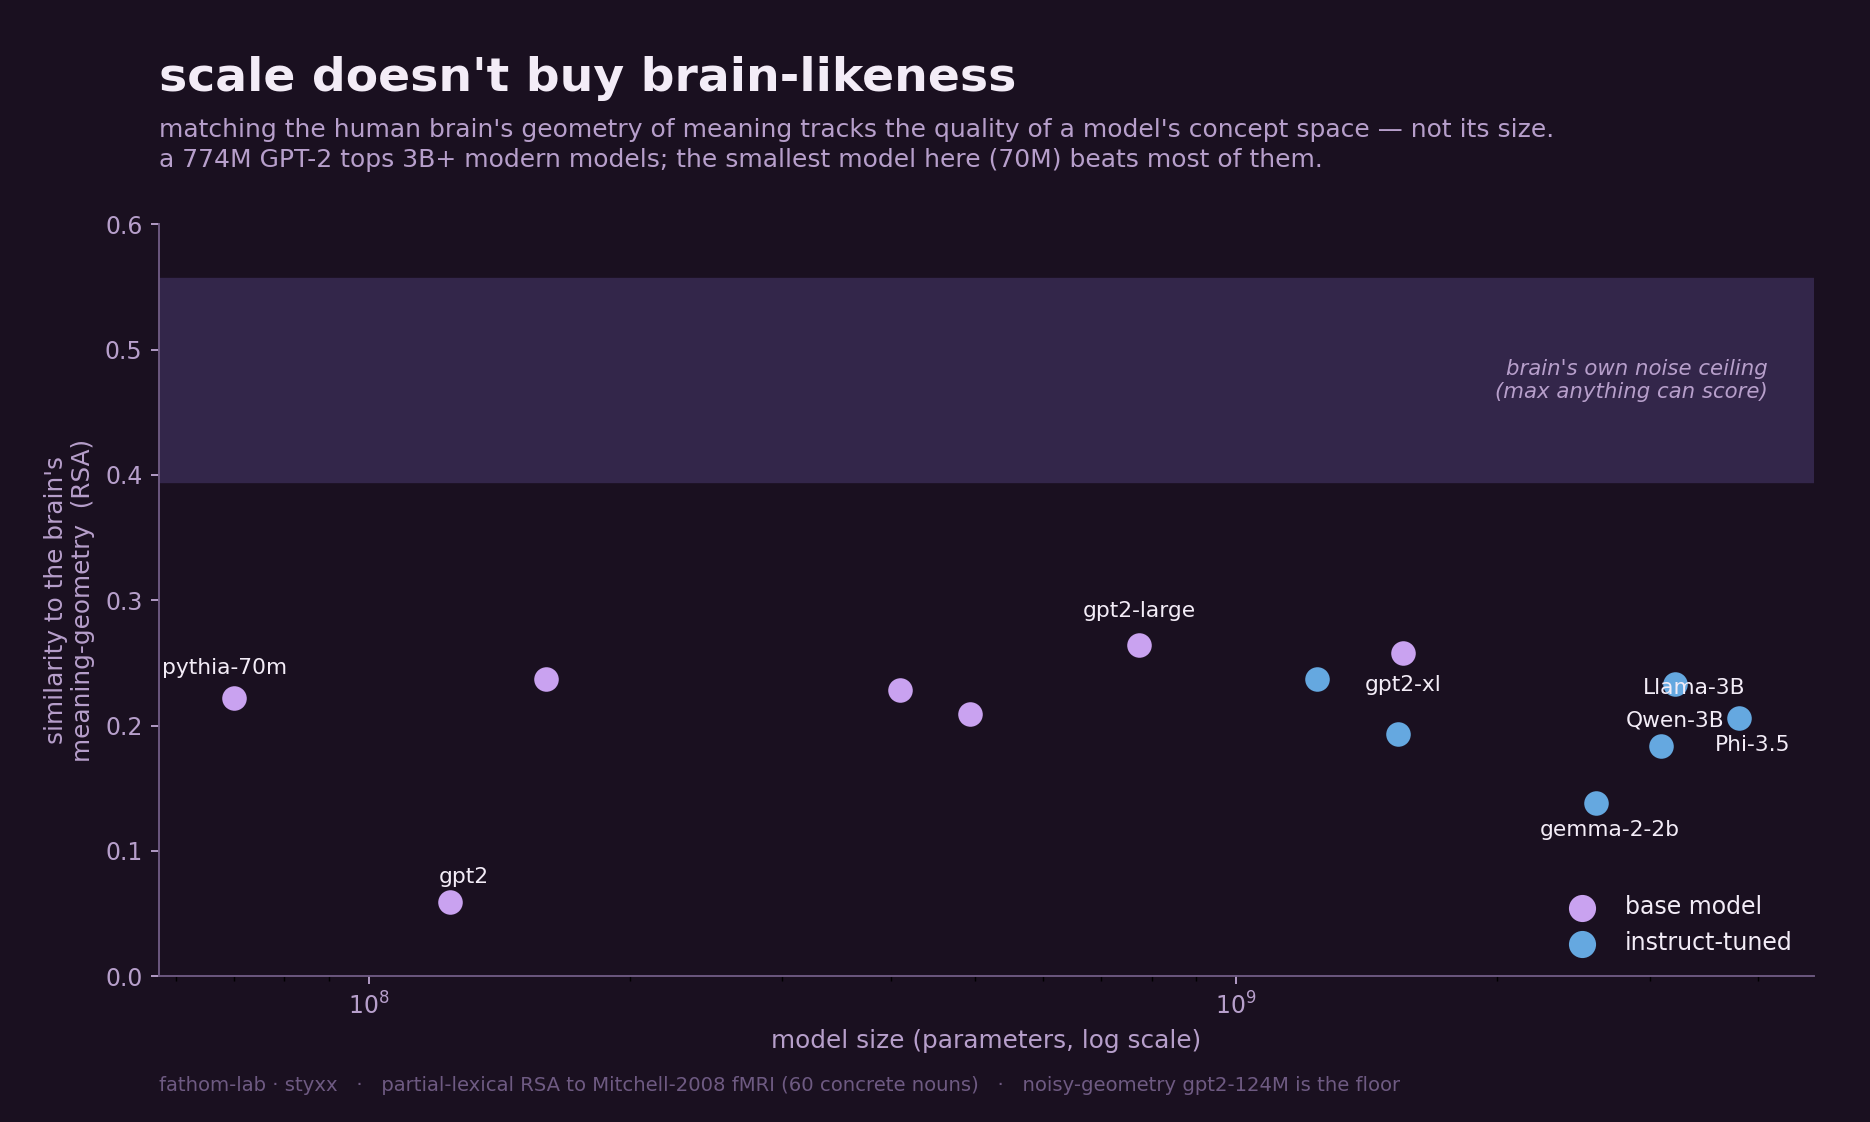
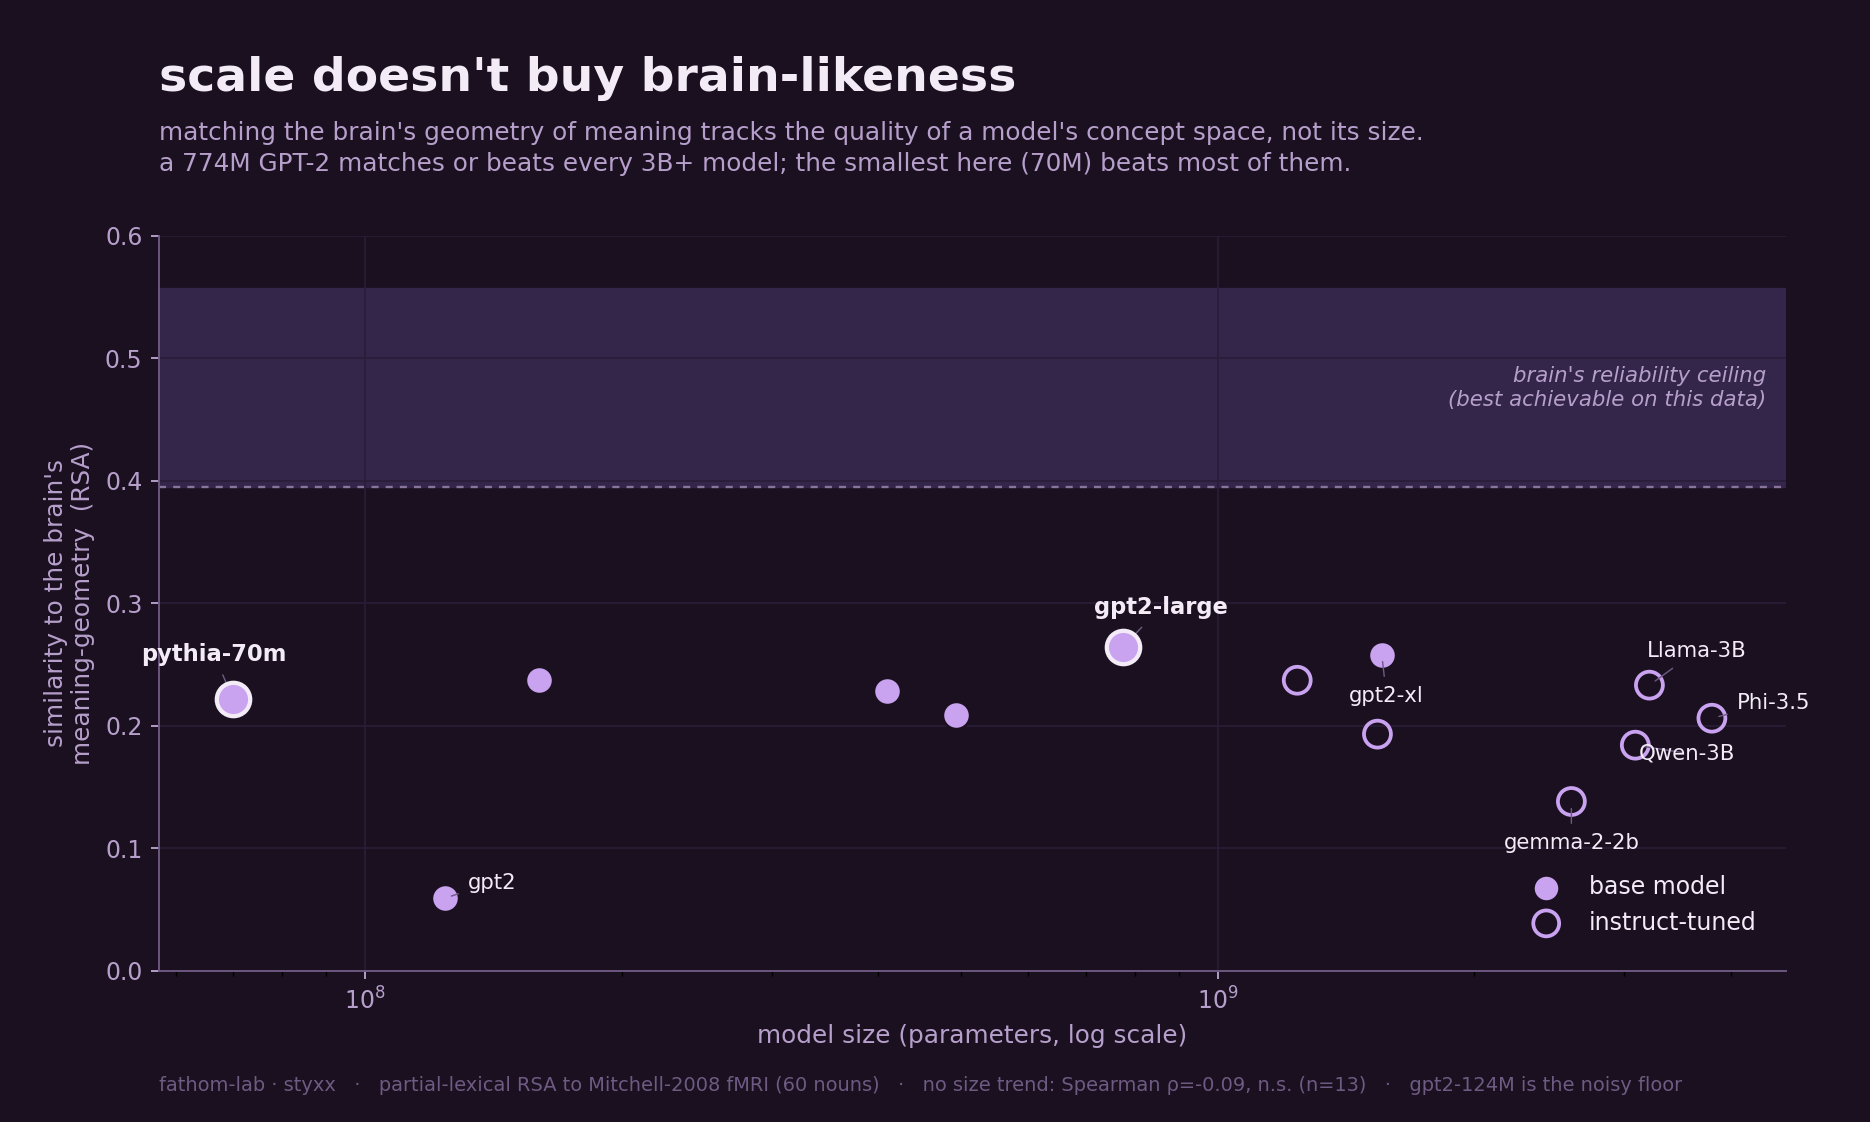
viz(ai-brain): figure v2 from a 5-lens critique — CIs, ceiling legibility, honest wording
Rebuilt both shareable figures after an adversarial design review (data-viz / honesty / brand / expert /
shareability). Added bootstrap_ci_threeway.py: 95% CIs by noun-resampling (point estimates reproduce the
committed bars exactly: 0.247/0.222/0.161/0.156). Paired bootstrap strengthens the claims — the LLM is
statistically indistinguishable from 1.5M human judgments (p=0.25) and reliably beats both embedders
(p=0.011/0.043) despite overlapping marginal CIs.

threeway: CI whiskers; visible x-axis ticks+grid (were invisible dark-on-dark); dashed ceiling line +
"top bars reach ~2/3 of ceiling"; visible chance anchor; honest lowercase title ("shares the brain's
geometry of meaning", not "means the same things"); VICE relabelled as a similarity model; x-label fixed
to the 53 shared nouns; un-clipped two-line footer (the rho=0.98 stat was running off-canvas).
scale: shape-coded base/instruct (kills the cyan/lilac collision with the hero); highlighted gpt2-large +
pythia-70m; leader lines on labels; quantified null in footer (Spearman size-vs-RSA rho=-0.09, n.s., n=13);
softened "tops" to "matches or beats".

diff --git a/papers/ai-human-alignment/make_ai_brain_figs.py b/papers/ai-human-alignment/make_ai_brain_figs.py
@@ -1,70 +1,96 @@
 # -*- coding: utf-8 -*-
 """Build the two shareable figures for RESULT_ai_brain_2026_06_03 (run from this directory).
-  fig_ai_brain_threeway.png  — LLM concept-geometry matches the human brain as well as 1.5M human
-                                judgments do, beating trained embedders, vs the fMRI noise ceiling.
-  fig_ai_brain_scale.png     — brain-likeness is geometry QUALITY, not scale (per-model RSA vs params).
-All numbers from ai_brain_result.json + RESULT_ai_brain_2026_06_03.md (committed, lexical-controlled)."""
+  fig_ai_brain_threeway.png — a free text-only LLM shares the brain's geometry of concrete meaning,
+      statistically indistinguishable from 1.5M human judgments and ahead of trained embedders, vs the
+      fMRI noise ceiling. 95% CIs from ci_threeway.json (noun bootstrap).
+  fig_ai_brain_scale.png    — brain-likeness is geometry QUALITY, not scale (per-model RSA vs params).
+All numbers from ai_brain_result.json + ci_threeway.json (committed, lexical-controlled)."""
 import json
 from pathlib import Path
+import numpy as np
+from scipy.stats import spearmanr
 import matplotlib; matplotlib.use("Agg"); import matplotlib.pyplot as plt
 
 HERE = Path(__file__).resolve().parent
 d = json.load(open(HERE / "ai_brain_result.json"))
+ci = json.load(open(HERE / "ci_threeway.json"))
 ceil_lo, ceil_hi = d["noise_ceiling"]
-BG="#1a1020"; INK="#F3ECF7"; SUB="#B79FCB"; LILAC="#C9A2F0"; CYAN="#65E0D8"; MUTE="#6E5A82"; CEIL="#33264a"; INST="#65A8E0"
-plt.rcParams.update({"font.family":"DejaVu Sans"})
+BG="#1a1020"; INK="#F3ECF7"; SUB="#B79FCB"; LILAC="#C9A2F0"; CYAN="#65E0D8"; MUTE="#6E5A82"; CEIL="#33264a"; GRID="#2a1d38"
+plt.rcParams.update({"font.family": "DejaVu Sans"})
 
 
 def threeway():
-    # three-way comparison on the 53 nouns shared with THINGS/VICE (RESULT_ai_brain §"the three-way")
-    rows = [("Human behavior\n1.5M odd-one-out judgments (VICE)", 0.247, CYAN, False),
-            ("Language model\ngpt2-large — text only, off the shelf", 0.222, LILAC, True),
-            ("Sentence embedder\nmpnet (trained on similarity)", 0.161, MUTE, False),
-            ("Sentence embedder\nMiniLM (trained on similarity)", 0.156, MUTE, False)]
-    fig, ax = plt.subplots(figsize=(11,6.2), dpi=170); fig.patch.set_facecolor(BG); ax.set_facecolor(BG)
-    fig.subplots_adjust(left=0.30, right=0.965, top=0.80, bottom=0.13)
+    rows = [("human similarity (VICE)\n1.5M odd-one-out judgments", "VICE", CYAN, False),
+            ("language model\ngpt2-large — text only, off the shelf", "gpt2-large", LILAC, True),
+            ("sentence embedder · mpnet\nbuilt to measure similarity", "mpnet", MUTE, False),
+            ("sentence embedder · MiniLM\nbuilt to measure similarity", "MiniLM", MUTE, False)]
+    fig, ax = plt.subplots(figsize=(11, 6.5), dpi=170); fig.patch.set_facecolor(BG); ax.set_facecolor(BG)
+    fig.subplots_adjust(left=0.32, right=0.955, top=0.77, bottom=0.165)
     ax.axvspan(ceil_lo, ceil_hi, color=CEIL, zorder=0)
-    ax.text(ceil_hi-0.004, len(rows)-0.42, "the brain's own reliability\n(ceiling — the most anything can score)",
-            ha="right", va="center", fontsize=9.5, color=SUB, style="italic")
+    ax.axvline(ceil_lo, color=SUB, lw=1, ls=(0, (3, 3)), alpha=0.65, zorder=1)
+    ax.text(ceil_lo + 0.007, len(rows) - 0.62, "brain's reliability ceiling\nbest achievable on this fMRI data\n→ top bars reach ~⅔ of it",
+            ha="left", va="center", fontsize=8.8, color=SUB, style="italic", linespacing=1.3)
     ys = list(range(len(rows)))[::-1]
-    for y,(label,val,col,hi) in zip(ys, rows):
-        ax.barh(y, val, height=0.62, color=col, zorder=3, edgecolor=INK if hi else "none", linewidth=1.6 if hi else 0)
-        ax.text(val+0.006, y, f"{val:.3f}", va="center", ha="left", fontsize=12, color=INK, fontweight="bold" if hi else "normal")
-        ax.text(-0.014, y, label, va="center", ha="right", fontsize=10.3, color=INK if hi else SUB, fontweight="bold" if hi else "normal")
-    ax.axvline(0.002, color=MUTE, lw=1, ls=(0,(2,2)), zorder=2)
-    ax.text(0.002, -0.72, "chance\n(shuffled)", ha="center", va="top", fontsize=8.5, color=MUTE)
-    ax.set_xlim(0,0.60); ax.set_ylim(-0.95, len(rows)-0.30); ax.set_yticks([]); ax.set_xticks([0,0.1,0.2,0.3,0.4,0.5])
-    for s in ("top","right","left"): ax.spines[s].set_visible(False)
-    ax.set_xlabel("similarity to the human brain's geometry of meaning  (RSA → Mitchell-2008 fMRI, 60 concrete nouns)", fontsize=10.5, color=SUB)
-    fig.text(0.012,0.975,"A language model means the same things the brain does", fontsize=19, fontweight="bold", color=INK, va="top")
-    fig.text(0.012,0.905,"A free, off-the-shelf, text-only LLM matches the human brain's structure of concrete meaning\n"
-             "as well as 1.5M human judgments do — and beats embedders purpose-built for it.", fontsize=11, color=SUB, va="top", linespacing=1.35)
-    fig.text(0.30,0.025,"fathom-lab · styxx   ·   lexical-controlled, noise-ceiling-relative, vision-confound tested   ·   brain↔behavior model ranking ρ = 0.98", fontsize=8.6, color=MUTE)
-    fig.savefig(HERE/"fig_ai_brain_threeway.png", facecolor=BG); plt.close(fig)
+    for y, (label, key, col, hi) in zip(ys, rows):
+        val, lo, hiv = ci[key]["point"], ci[key]["lo"], ci[key]["hi"]
+        ax.barh(y, val, height=0.56, color=col, zorder=3, edgecolor=INK if hi else "none", linewidth=1.9 if hi else 0)
+        ax.errorbar(val, y, xerr=[[val - lo], [hiv - val]], fmt="none", ecolor=INK if hi else SUB,
+                    elinewidth=1.3, capsize=4, zorder=5, alpha=0.95)
+        ax.text(hiv + 0.009, y, f"{val:.3f}", va="center", ha="left", fontsize=12.5, color=INK, fontweight="bold" if hi else "normal")
+        ax.text(-0.012, y, label, va="center", ha="right", fontsize=10, color=INK if hi else SUB, fontweight="bold" if hi else "normal")
+    ax.axvline(0.0, color=MUTE, lw=1.3, zorder=2)
+    ax.text(0.0, -0.82, "chance ≈ 0", ha="center", va="top", fontsize=9, color=MUTE)
+    ax.set_xlim(0, 0.60); ax.set_ylim(-1.05, len(rows) - 0.25)
+    ax.set_yticks([]); ax.set_xticks([0, 0.1, 0.2, 0.3, 0.4, 0.5, 0.6]); ax.tick_params(colors=SUB, labelsize=9)
+    ax.grid(axis="x", color=GRID, lw=0.8, zorder=0)
+    for s in ("top", "right", "left"): ax.spines[s].set_visible(False)
+    ax.spines["bottom"].set_color(MUTE)
+    ax.set_xlabel("similarity to the human brain's geometry of meaning   (partial-lexical RSA → Mitchell-2008 fMRI, 53 shared nouns)", fontsize=9.8, color=SUB)
+    fig.text(0.012, 0.965, "a free language model shares the brain's geometry of meaning", fontsize=17.5, fontweight="bold", color=INK, va="top")
+    fig.text(0.012, 0.895, "off-the-shelf and text-only, it tracks the brain as well as 1.5M human judgments do (statistically\nindistinguishable) — and ahead of the embedders built to measure meaning.",
+             fontsize=10.4, color=SUB, va="top", linespacing=1.35)
+    fig.text(0.32, 0.045, "fathom-lab · styxx   ·   95% CIs by noun bootstrap   ·   paired test: ≈ human behavior, > both embedders (p<.05)", fontsize=8.3, color=MUTE)
+    fig.text(0.32, 0.018, "lexical-controlled · vision-control survives · brain↔behavior model-ranking ρ = 0.98", fontsize=8.3, color=MUTE)
+    fig.savefig(HERE / "fig_ai_brain_threeway.png", facecolor=BG); plt.close(fig)
 
 
 def scale():
     pm = d["per_model"]; M = [(m, pm[m]["params"], pm[m]["brain"], pm[m]["instruct"]) for m in pm]
-    fig, ax = plt.subplots(figsize=(11,6.6), dpi=170); fig.patch.set_facecolor(BG); ax.set_facecolor(BG)
-    fig.subplots_adjust(left=0.085, right=0.97, top=0.80, bottom=0.13)
+    rho, p = spearmanr([np.log10(x[1]) for x in M], [x[2] for x in M])
+    print(f"scale: Spearman(log params, brain RSA) rho={rho:.2f} p={p:.2f} (n={len(M)})")
+    story = {"gpt2-large", "pythia-70m"}
+    fig, ax = plt.subplots(figsize=(11, 6.6), dpi=170); fig.patch.set_facecolor(BG); ax.set_facecolor(BG)
+    fig.subplots_adjust(left=0.085, right=0.955, top=0.79, bottom=0.135)
     ax.axhspan(ceil_lo, ceil_hi, color=CEIL, zorder=0)
-    ax.text(4.1e9,(ceil_lo+ceil_hi)/2,"brain's own noise ceiling\n(max anything can score)", ha="right", va="center", fontsize=9, color=SUB, style="italic")
-    for m,p,b,inst in M: ax.scatter(p,b,s=130,c=(INST if inst else LILAC),edgecolor=BG,linewidth=1,zorder=3)
-    lab={"gpt2-large":(0,12),"gpt2-xl":(0,-16),"pythia-70m":(-4,10),"gemma-2-2b":(6,-14),"Qwen-3B":(6,8),"Phi-3.5":(6,-14),"gpt2":(6,8),"Llama-3B":(8,-4)}
-    for m,p,b,inst in M:
-        if m in lab: ax.annotate(m,(p,b),textcoords="offset points",xytext=lab[m],fontsize=9.2,color=INK,ha="center")
+    ax.axhline(ceil_lo, color=SUB, lw=1, ls=(0, (3, 3)), alpha=0.65, zorder=1)
+    ax.text(4.4e9, (ceil_lo + ceil_hi) / 2, "brain's reliability ceiling\n(best achievable on this data)", ha="right", va="center", fontsize=9, color=SUB, style="italic")
+    for m, p_, b, inst in M:
+        hero = m in story
+        if inst:
+            ax.scatter(p_, b, s=130, facecolors="none", edgecolors=LILAC, linewidth=1.6, zorder=3)
+        else:
+            ax.scatter(p_, b, s=200 if hero else 130, c=LILAC, edgecolor=INK if hero else BG, linewidth=1.8 if hero else 1, zorder=4 if hero else 3)
+    lab = {"gpt2-large": (16, 14), "gpt2-xl": (2, -20), "pythia-70m": (-8, 16), "gemma-2-2b": (0, -20),
+           "Qwen-3B": (22, -6), "Phi-3.5": (26, 4), "gpt2": (20, 4), "Llama-3B": (20, 12)}
+    for m, p_, b, inst in M:
+        if m in lab:
+            big = m in story
+            ax.annotate(m, (p_, b), textcoords="offset points", xytext=lab[m], fontsize=9.6 if big else 9,
+                        color=INK, fontweight="bold" if big else "normal", ha="center",
+                        arrowprops=dict(arrowstyle="-", color=MUTE, lw=0.6, shrinkA=2, shrinkB=3))
     ax.set_xscale("log"); ax.set_xlabel("model size (parameters, log scale)", fontsize=10.5, color=SUB)
     ax.set_ylabel("similarity to the brain's\nmeaning-geometry  (RSA)", fontsize=10.5, color=SUB)
-    ax.tick_params(colors=SUB); ax.set_ylim(0,0.60)
-    for s in ("top","right"): ax.spines[s].set_visible(False)
-    for s in ("left","bottom"): ax.spines[s].set_color(MUTE)
-    ax.scatter([],[],c=LILAC,label="base model",s=110); ax.scatter([],[],c=INST,label="instruct-tuned",s=110)
-    ax.legend(loc="lower right", frameon=False, fontsize=10, labelcolor=INK)
-    fig.text(0.085,0.95,"scale doesn't buy brain-likeness", fontsize=20, fontweight="bold", color=INK, va="top")
-    fig.text(0.085,0.895,"matching the human brain's geometry of meaning tracks the quality of a model's concept space — not its size.\n"
-             "a 774M GPT-2 tops 3B+ modern models; the smallest model here (70M) beats most of them.", fontsize=10.6, color=SUB, va="top", linespacing=1.35)
-    fig.text(0.085,0.028,"fathom-lab · styxx   ·   partial-lexical RSA to Mitchell-2008 fMRI (60 concrete nouns)   ·   noisy-geometry gpt2-124M is the floor", fontsize=8.3, color=MUTE)
-    fig.savefig(HERE/"fig_ai_brain_scale.png", facecolor=BG); plt.close(fig)
+    ax.tick_params(colors=SUB); ax.set_ylim(0, 0.60); ax.grid(axis="both", color=GRID, lw=0.7, zorder=0)
+    for s in ("top", "right"): ax.spines[s].set_visible(False)
+    for s in ("left", "bottom"): ax.spines[s].set_color(MUTE)
+    ax.scatter([], [], c=LILAC, edgecolor=BG, label="base model", s=120)
+    ax.scatter([], [], facecolors="none", edgecolors=LILAC, linewidth=1.6, label="instruct-tuned", s=120)
+    ax.legend(loc="lower right", bbox_to_anchor=(0.995, 0.02), frameon=False, fontsize=10, labelcolor=INK)
+    fig.text(0.085, 0.95, "scale doesn't buy brain-likeness", fontsize=20, fontweight="bold", color=INK, va="top")
+    fig.text(0.085, 0.892, "matching the brain's geometry of meaning tracks the quality of a model's concept space, not its size.\n"
+             "a 774M GPT-2 matches or beats every 3B+ model; the smallest here (70M) beats most of them.", fontsize=10.5, color=SUB, va="top", linespacing=1.35)
+    fig.text(0.085, 0.028, f"fathom-lab · styxx   ·   partial-lexical RSA to Mitchell-2008 fMRI (60 nouns)   ·   no size trend: Spearman ρ={rho:.2f}, n.s. (n={len(M)})   ·   gpt2-124M is the noisy floor", fontsize=8.2, color=MUTE)
+    fig.savefig(HERE / "fig_ai_brain_scale.png", facecolor=BG); plt.close(fig)
 
 
 if __name__ == "__main__":

diff --git a/papers/ai-human-alignment/bootstrap_ci_threeway.py b/papers/ai-human-alignment/bootstrap_ci_threeway.py
@@ -1,0 +1,74 @@
+# -*- coding: utf-8 -*-
+"""Bootstrap 95% CIs for the three-way bars (RSA-to-brain, partial-lexical, 53 shared nouns), by
+resampling NOUNS with replacement (stimulus bootstrap), masking duplicate-item pairs so the artificial
+zero-distance diagonal doesn't inflate r. Reuses the exact run_ai_brain pipeline. Writes ci_threeway.json."""
+import sys, json
+import numpy as np
+from pathlib import Path
+HERE = Path(__file__).resolve().parent; DATA = HERE / "data"
+sys.path.insert(0, str(HERE.parent / "real-convergence"))
+from run_real_convergence import distmat
+from run_real_convergence_v2 import concept_all_layers
+from run_real_convergence_v3_controls import partial_corr
+import torch
+from transformers import AutoModelForCausalLM, AutoTokenizer
+from sentence_transformers import SentenceTransformer
+DEV = "cuda" if torch.cuda.is_available() else "cpu"
+
+bz = np.load(HERE / "brain_rdm.npz", allow_pickle=True)
+nouns = [str(w) for w in bz["nouns"]]; brain = bz["group"]
+rtok = AutoTokenizer.from_pretrained("meta-llama/Llama-3.2-1B-Instruct")
+
+vice = np.load(DATA / "final_embedding.npy")
+rows = (DATA / "things_concepts.tsv").read_text(encoding="utf-8").splitlines()[1:]
+tindex = {r.split("\t")[0].strip().lower(): i for i, r in enumerate(rows)}
+Snouns = [w for w in nouns if w in tindex]; Sidx = [nouns.index(w) for w in Snouns]; nS = len(Snouns)
+brain_S = brain[np.ix_(Sidx, Sidx)]
+vice_S = distmat(vice[[tindex[w] for w in Snouns]])
+print(f"{nS} shared nouns", flush=True)
+
+# build model/embedder RDMs on the FULL 60 nouns then sub-index (distmat centers over the item set,
+# so this must match run_ai_brain exactly); VICE is built on the 53 shared, as in run_ai_brain.
+emb60 = {}
+for tag, repo in [("MiniLM", "sentence-transformers/all-MiniLM-L6-v2"), ("mpnet", "sentence-transformers/all-mpnet-base-v2")]:
+    st = SentenceTransformer(repo, device=DEV); emb60[tag] = distmat(st.encode(nouns, normalize_embeddings=True)); del st
+tok = AutoTokenizer.from_pretrained("gpt2-large")
+mdl = AutoModelForCausalLM.from_pretrained("gpt2-large", torch_dtype=torch.float16).to(DEV).eval()
+llm60 = distmat(np.stack([concept_all_layers(mdl, tok, w)[-1] for w in nouns])); del mdl
+sub = lambda M: M[np.ix_(Sidx, Sidx)]
+
+cl = np.array([len(w) for w in Snouns], float)
+tl = np.array([len(rtok(" " + w, add_special_tokens=False).input_ids) for w in Snouns], float)
+zc = (cl - cl.mean()) / (cl.std() + 1e-9); zt = (tl - tl.mean()) / (tl.std() + 1e-9)
+bars = {"VICE": vice_S, "gpt2-large": sub(llm60), "mpnet": sub(emb60["mpnet"]), "MiniLM": sub(emb60["MiniLM"])}
+
+
+def rsa(idx):
+    ii, jj = np.triu_indices(len(idx), 1)
+    keep = idx[ii] != idx[jj]                       # drop duplicate-item pairs
+    a, b = idx[ii][keep], idx[jj][keep]
+    Z = np.column_stack([np.abs(zc[a] - zc[b]), np.abs(zt[a] - zt[b])])
+    bvec = brain_S[a, b]
+    return {k: float(partial_corr(M[a, b], bvec, Z)) for k, M in bars.items()}
+
+
+pt = rsa(np.arange(nS))
+rng = np.random.default_rng(0); B = 2000
+boot = {k: [] for k in bars}
+for _ in range(B):
+    r = rsa(rng.integers(0, nS, nS))
+    for k in r: boot[k].append(r[k])
+out = {k: {"point": round(pt[k], 3),
+           "lo": round(float(np.percentile(boot[k], 2.5)), 3),
+           "hi": round(float(np.percentile(boot[k], 97.5)), 3)} for k in bars}
+# pairwise: does the bootstrap difference exclude 0? (does LLM beat embedders / match VICE?)
+def pdiff(a, b):
+    d = np.array(boot[a]) - np.array(boot[b])
+    return {"mean": round(float(d.mean()), 3), "p_a_le_b": round(float((d <= 0).mean()), 3)}
+out["_diff"] = {"VICE-gpt2large": pdiff("VICE", "gpt2-large"),
+                "gpt2large-mpnet": pdiff("gpt2-large", "mpnet"),
+                "gpt2large-MiniLM": pdiff("gpt2-large", "MiniLM")}
+(HERE / "ci_threeway.json").write_text(json.dumps(out, indent=2), encoding="utf-8")
+for k in bars: print(f"  {k:11s} {out[k]['point']:+.3f}  95% CI [{out[k]['lo']:+.3f}, {out[k]['hi']:+.3f}]")
+print("diffs:", json.dumps(out["_diff"]))
+print("wrote ci_threeway.json")